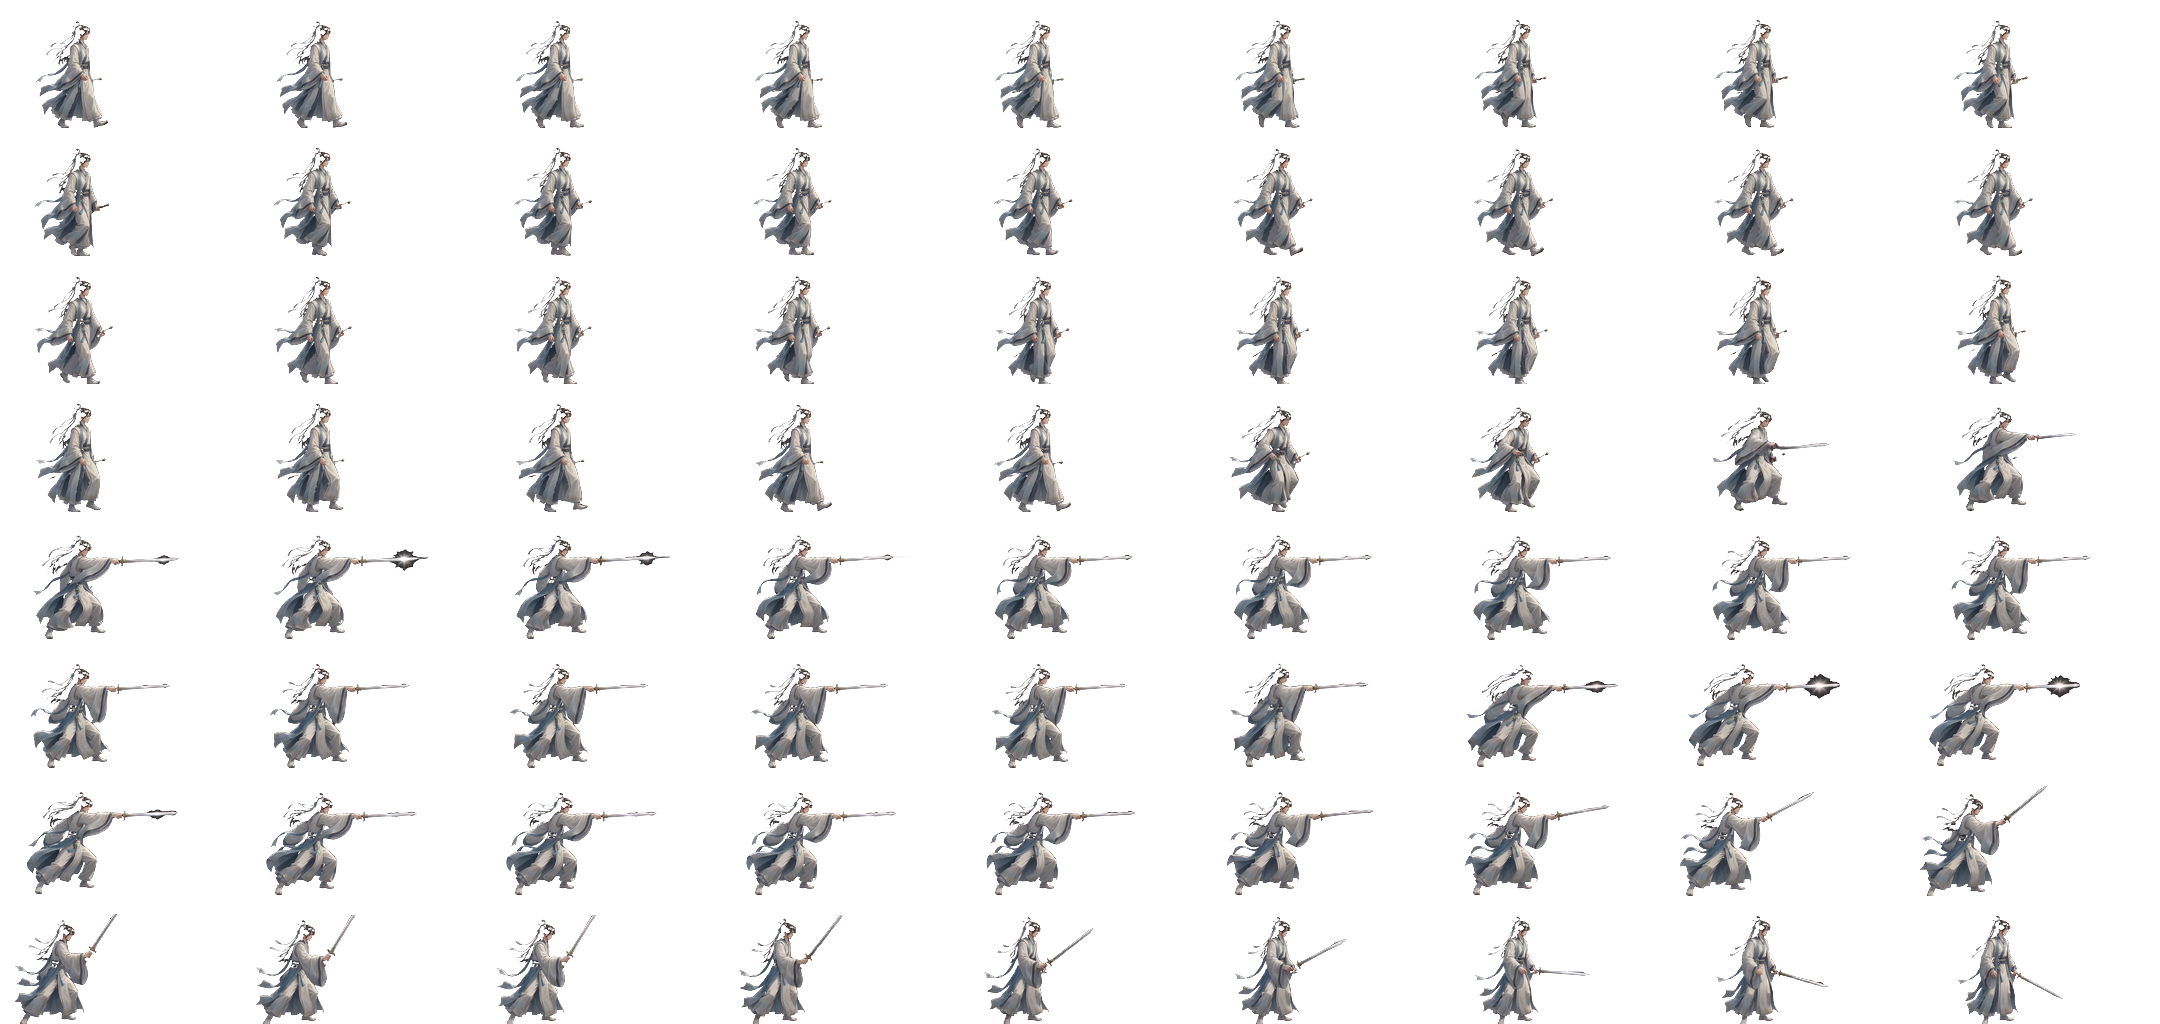
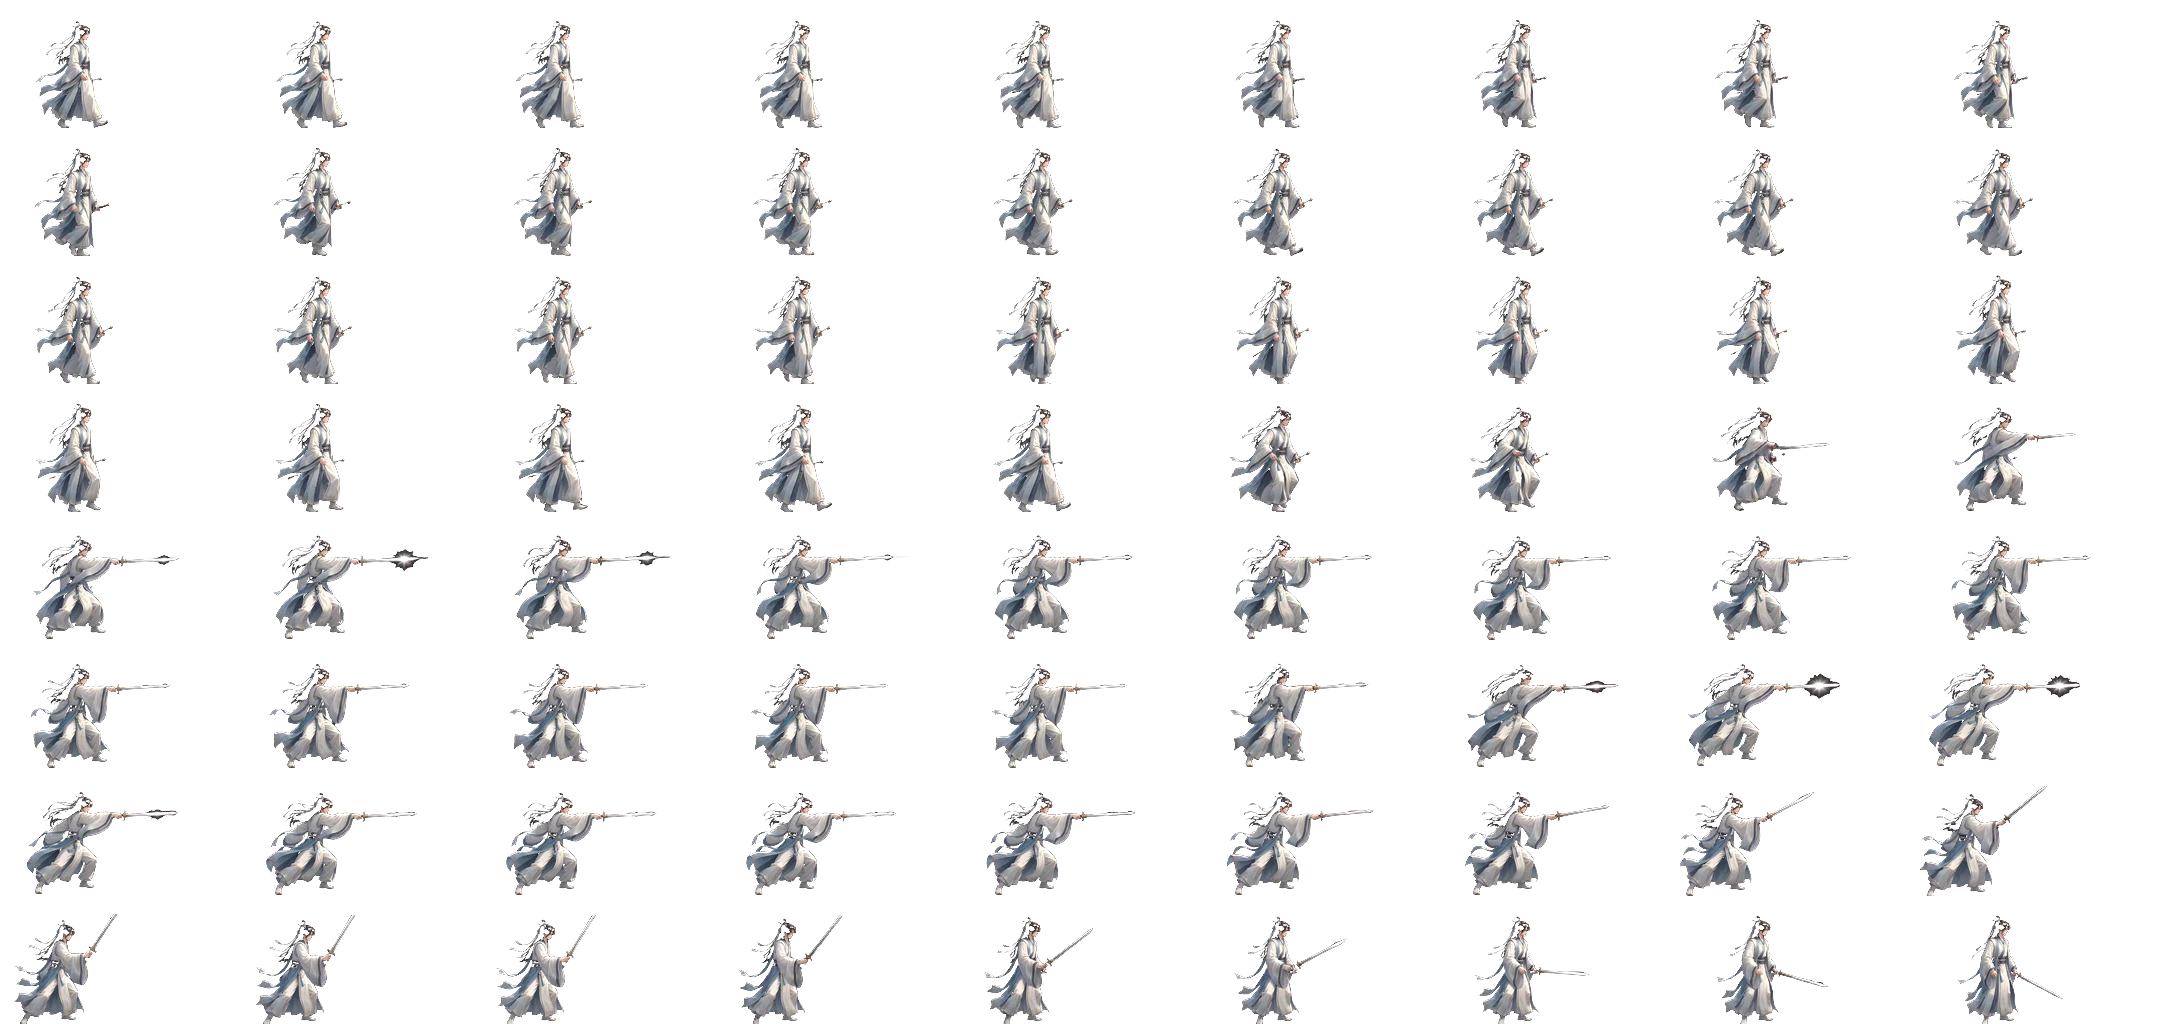
v2.6.1 UI 修复批: 角色提亮/图标抠底/进度条贴合/HUD 重排/技能页一屏
- 角色精灵表: 白衣 RGB×1.22 + alpha 收实(>=200→255), 修复'透明度过高'观感
- 宝物/丹房大图标: 泛洪抠掉未抠空的黑底(金框与内容保留), 按钮垫黑改透明
- 聚灵阵/突破进度条: 弃旧 SVG clipPath 墨形, 改按钮 webp 皮肤 alpha 作 mask,
  与图片皮肤天然贴合(聚灵阵用预翻转副本保持填充方向)
- HUD 重排: 境界区上移第一排最左上; 资源 chip 右移避开小图标;
  丹力提示拆独立定层(小图标正下方 72px), 不再压右上角图标
- 技能页: 卡片高度改内容自适应(原固定 88vh); 砍说明行/触发时机并入效果行/
  经验并入进度条同行 → 8 门神通一屏放下

diff --git a/index.html b/index.html
@@ -25,10 +25,11 @@
       linear-gradient(180deg, rgba(5,8,18,.35), transparent 30%, transparent 70%, rgba(4,6,14,.72))}
 
   /* ---- HUD ---- */
-  /* v1.5.0: 两行化 —— 第一行顶部资源栏(灵石/修为/云存/自动战斗), 第二行境界牌+宝/邮件 */
+  /* v2.6.1: 第一行 = 境界牌(最左) + 资源 chip(右移, 避开右上角小图标列) */
   .hud{position:fixed;left:0;right:0;top:0;z-index:10;padding:8px 12px 0;
     display:flex;flex-direction:column;gap:2px}
-  .res-bar{display:flex;align-items:center;justify-content:center;gap:7px;flex-wrap:wrap}
+  .res-bar{display:flex;align-items:center;justify-content:flex-end;gap:7px;flex-wrap:wrap;
+    margin-right:calc(78px + env(safe-area-inset-right, 0px))}
   .res-chip{flex:none}
   .res-bar .spirit{padding:3px 10px;font-size:12px}
   .res-bar .rate{padding:3px 9px;font-size:10.5px}
@@ -133,7 +134,7 @@
   .small-icons .icon-btn .mail-dot{position:absolute;top:-1px;right:-1px;width:7px;height:7px;background:#ff4a4a;border-radius:50%;border:1px solid #fff;display:none;z-index:2}
   .small-icons .icon-btn.has-mail .mail-dot{display:block;animation:dotBlink 1.2s ease-in-out infinite}
   .small-icons .icon-btn.has-mail{box-shadow:0 0 8px rgba(232,197,107,.8);border-color:#e8c56b}
-  .battle-ui .icon-btn{position:relative;width:42px;height:42px;border-radius:5px;overflow:hidden;cursor:pointer;transition:transform .15s,box-shadow .3s;border:1px solid rgba(232,197,107,.25);background:#000;flex:none}
+  .battle-ui .icon-btn{position:relative;width:42px;height:42px;border-radius:5px;overflow:hidden;cursor:pointer;transition:transform .15s,box-shadow .3s;border:1px solid rgba(232,197,107,.25);background:transparent;flex:none}   /* v2.6.1: 图标黑底已抠空, 垫黑改透明 */
   .battle-ui .icon-btn img{width:100%;height:100%;display:block;pointer-events:none}
   .battle-ui .icon-btn.small{width:28px;height:28px;border-radius:3px}
   .battle-ui #cloudChip{display:block;width:28px;height:28px;max-width:none;padding:0;overflow:hidden}
@@ -175,6 +176,12 @@
   .btn .label{position:relative;z-index:2}
   .btn .prog{position:absolute;inset:0;width:100%;height:100%;pointer-events:none;z-index:1;
     mix-blend-mode:multiply;isolation:isolate}   /* v1.7.49: 与按钮底色相乘 → 恒为"本色加深", 任何状态(金/红/禁用灰调)都不割裂 */
+  /* v2.6.1: 皮肤已换 webp 图片 → 进度填充改用图片 alpha 作 mask 裁形, 与新皮肤天然贴合
+     (替代旧 SVG clipPath 墨形; 聚灵阵皮肤有 scaleX(-1) 镜像, mask 需用预翻转副本保持填充方向从左到右) */
+  #btnArray .prog{-webkit-mask-image:url(assets/ui_icons/btn_array_flip.webp);mask-image:url(assets/ui_icons/btn_array_flip.webp);
+    -webkit-mask-size:100% 100%;mask-size:100% 100%;-webkit-mask-repeat:no-repeat;mask-repeat:no-repeat}
+  #btnBreak .prog{-webkit-mask-image:url(assets/ui_icons/btn_break.webp);mask-image:url(assets/ui_icons/btn_break.webp);
+    -webkit-mask-size:100% 100%;mask-size:100% 100%;-webkit-mask-repeat:no-repeat;mask-repeat:no-repeat}
   /* v1.10.2: 右移躲屏幕圆角(原来 right:9px 的尾字被圆角吃掉), 并叠一层 safe-area 兜底 */
   .ver-float{position:fixed;right:calc(26px + env(safe-area-inset-right, 0px));bottom:4px;z-index:10;pointer-events:none}
   /* ==================== v1.7.58 开屏页(大厂式: 品牌居中 + 进度百分比 + 忠告沉底) ==================== */
@@ -299,6 +306,9 @@
   /* 剧情纲目弹层 */
   .story-card{max-width:440px;width:94%;height:min(88vh,780px);display:flex;flex-direction:column;
     padding:16px 16px 14px;text-align:left;overflow:hidden}
+  /* v2.6.1: 技能页卡片改内容自适应高度(原固定 88vh 一屏占满) —— 内容超出时 skillBody 内部滚动兜底 */
+  #skillModal .story-card{height:auto;min-height:0;max-height:min(88vh,780px)}
+  #skillModal #skillBody{flex:1 1 auto;min-height:0;overflow-y:auto;-webkit-overflow-scrolling:touch}
   .story-card h3{margin-bottom:3px}
   .story-tip{font-size:10.5px;color:var(--dim);margin-bottom:4px;line-height:1.6}
   .chips-row{display:flex;gap:6px;overflow-x:auto;padding:2px 0 8px;scrollbar-width:none}
@@ -497,11 +507,7 @@
 <div class="vignette"></div>
 
 <div class="hud">
-  <!-- v1.5.0 顶部资源栏: 灵石 / 修为速率 / 云存 / 自动战斗小开关, 不再占右侧一列 -->
-  <div class="res-bar">
-    <div class="spirit res-chip"><svg class="sico" viewBox="0 0 20 20" aria-hidden="true"><path d="M10 1.5 L18.5 10 L10 18.5 L1.5 10 Z" fill="#67c9ab"/><path d="M10 1.5 L10 18.5 L18.5 10 Z" fill="#b7ecda"/><path d="M10 1.5 L1.5 10 L10 10 Z" fill="#9de0c9"/></svg><span id="spirit">0</span></div>
-    <div class="rate res-chip">修为 <b id="rateText">0</b>/秒</div>
-  </div>
+  <!-- v2.6.1: 境界区上移第一排最左; 资源 chip 右移(避开右上角小图标); 丹力提示拆到小图标正下方的独立层 -->
   <div class="hud-row">
     <div class="realm-left">
       <!-- v1.8.0: 榜单入口从资源栏移进境界牌 —— 资源栏不再被挤到第二行, 点整块境界牌即看榜 -->
@@ -510,11 +516,15 @@
         <button class="pname-btn" id="pName" onclick="openRename()" title="点此定道号"></button>
       </div>
     </div>
-    <div class="hud-right">
-      <div id="pillHints"></div>
+    <div class="res-bar">
+      <div class="spirit res-chip"><svg class="sico" viewBox="0 0 20 20" aria-hidden="true"><path d="M10 1.5 L18.5 10 L10 18.5 L1.5 10 Z" fill="#67c9ab"/><path d="M10 1.5 L10 18.5 L18.5 10 Z" fill="#b7ecda"/><path d="M10 1.5 L1.5 10 L10 10 Z" fill="#9de0c9"/></svg><span id="spirit">0</span></div>
+      <div class="rate res-chip">修为 <b id="rateText">0</b>/秒</div>
     </div>
   </div>
 </div>
+
+<!-- 丹力/洗髓 提示: 独立定层, 固定在右上角小图标正下方, 不再压图标 -->
+<div id="pillHints"></div>
 
 <!-- v1.5.0 顶部纵向流: 行迹 → 搜寻妖踪提示 → 战斗横幅, 依次排布不挤压(自动战斗开关已上移资源栏) -->
 <div class="top-stack" id="topStack">
@@ -564,8 +574,8 @@
 <div class="feed feed-avatar" id="avatarFeed"></div>
 <div class="feed feed-main" id="mainFeed"></div>
 <div class="actions">
-  <button class="btn" id="btnArray" onclick="tapArray()"><img class="skin" src="assets/ui_icons/btn_array.webp" alt=""><svg class="prog" viewBox="0 0 200 60" preserveAspectRatio="none" aria-hidden="true"><defs><clipPath id="arrFillClip"><path d="M12 9 C28 3 44 10 60 6 C76 2 92 8 108 6 C124 4 140 8 158 6 C174 4 192 8 197 16 C199 26 198 34 195 41 C193 46 196 52 182 53 C168 55 154 50 140 53 C124 56 110 50 96 53 C82 56 68 51 56 53 C42 55 30 50 20 52 C8 54 2 46 3 38 C3 28 2 20 5 15 C7 12 9 10 12 9 Z"/></clipPath></defs><rect id="arrFill" x="0" y="0" width="0" height="60" fill="url(#progGreen)" clip-path="url(#arrFillClip)"/></svg><span class="label">聚灵阵 Lv.<span id="arrayLv">1</span></span><i class="pnum" id="arrNum"></i></button>
-  <button class="btn primary" id="btnBreak" onclick="manualBreak()"><img class="skin" src="assets/ui_icons/btn_break.webp" alt=""><svg class="prog" viewBox="0 0 200 60" preserveAspectRatio="none" aria-hidden="true"><defs><clipPath id="brkFillClip"><path d="M14 7 C30 2 40 12 56 6 C72 1 84 9 100 6 C118 3 132 8 150 5 C166 3 184 6 194 12 C199 20 196 28 197 36 C198 44 194 50 180 52 C166 54 150 49 136 53 C120 57 104 50 90 54 C76 58 62 52 48 55 C34 57 20 52 10 53 C2 52 3 44 4 36 C5 27 3 19 6 14 C7 11 10 9 14 7 Z"/></clipPath></defs><rect id="brkFill" x="0" y="0" width="0" height="60" fill="url(#progJade)" clip-path="url(#brkFillClip)"/></svg><span class="label">☯ 立即突破</span><i class="pnum" id="brkNum"></i></button>
+  <button class="btn" id="btnArray" onclick="tapArray()"><img class="skin" src="assets/ui_icons/btn_array.webp" alt=""><svg class="prog" viewBox="0 0 200 60" preserveAspectRatio="none" aria-hidden="true"><rect id="arrFill" x="0" y="0" width="0" height="60" fill="url(#progGreen)"/></svg><span class="label">聚灵阵 Lv.<span id="arrayLv">1</span></span><i class="pnum" id="arrNum"></i></button>
+  <button class="btn primary" id="btnBreak" onclick="manualBreak()"><img class="skin" src="assets/ui_icons/btn_break.webp" alt=""><svg class="prog" viewBox="0 0 200 60" preserveAspectRatio="none" aria-hidden="true"><rect id="brkFill" x="0" y="0" width="0" height="60" fill="url(#progJade)"/></svg><span class="label">☯ 立即突破</span><i class="pnum" id="brkNum"></i></button>
   <button class="btn" id="btnTravel" onclick="openTravel()"><img class="skin" src="assets/ui_icons/btn_travel.webp" alt=""><span class="label">云游</span></button>
 </div>
 

diff --git a/game.js b/game.js
@@ -5214,30 +5214,30 @@ function hashRand(s) { let h = 2166136261; for (let i = 0; i < s.length; i++) { 
  * 数值: from(Lv1) → to(Lv20) 线性插值 —— 调参只改这两组数。 */
 const SKILL_MAX = 20;
 const SKILL_DEFS = [
-  { id: "jianqi",  name: "剑气斩", ico: "✦", tip: "普攻命中时概率斩出一道剑气 —— 这一击自带攻击力加成",
+  { id: "jianqi",  name: "剑气斩", ico: "✦",
     from: { chance: 5, dmg: 60 },          to: { chance: 30, dmg: 160 },
-    fmt: v => `${v.chance.toFixed(0)}% 触发 · 这一击 <b>×${v.dmg.toFixed(0)}% 攻击</b>` },
-  { id: "sanlian", name: "三连斩", ico: "❊", tip: "第二段落剑后概率再补一刀 —— 补刀必会心",
+    fmt: v => `命中 ${v.chance.toFixed(0)}% 斩出剑气 · 该击 <b>×${v.dmg.toFixed(0)}% 攻</b>` },
+  { id: "sanlian", name: "三连斩", ico: "❊",
     from: { chance: 4, dmg: 50 },          to: { chance: 25, dmg: 130 },
-    fmt: v => `${v.chance.toFixed(0)}% 触发 · 补刀 <b>×${v.dmg.toFixed(0)}% 攻击</b> 且必会心` },
-  { id: "hengsao", name: "横扫千军", ico: "◠", tip: "普攻命中时概率波及身周数名妖物",
+    fmt: v => `二段后 ${v.chance.toFixed(0)}% 补刀 · <b>×${v.dmg.toFixed(0)}% 攻</b> 必会心` },
+  { id: "hengsao", name: "横扫千军", ico: "◠",
     from: { chance: 3, n: 2, dmg: 40 },    to: { chance: 20, n: 5, dmg: 80 },
-    fmt: v => `${v.chance.toFixed(0)}% 触发 · 波及 ${v.n.toFixed(0)} 个 · <b>×${v.dmg.toFixed(0)}% 攻击</b>` },
-  { id: "zhansha", name: "斩杀", ico: "✖", tip: "目标残血时这一击伤害翻倍，残血线随等级抬高",
+    fmt: v => `命中 ${v.chance.toFixed(0)}% 波及身周 ${v.n.toFixed(0)} 个 · <b>×${v.dmg.toFixed(0)}% 攻</b>` },
+  { id: "zhansha", name: "斩杀", ico: "✖",
     from: { threshold: 5 },                to: { threshold: 25 },
-    fmt: v => `残血 ${v.threshold.toFixed(0)}% 以下 · 这一击 <b>伤害翻倍</b>` },
-  { id: "jifeng",  name: "疾风步", ico: "≫", tip: "身法 —— 击杀后概率踏入二倍速，期间身形飘忽加闪避",
+    fmt: v => `目标残血 <b>${v.threshold.toFixed(0)}%</b> 以下 · 该击伤害翻倍` },
+  { id: "jifeng",  name: "疾风步", ico: "≫",
     from: { chance: 5, dur: 4, mult: 2, dodge: 4 },   to: { chance: 65, dur: 8, mult: 2, dodge: 25 },
-    fmt: v => `${v.chance.toFixed(0)}% 触发 · ${v.mult} 倍速 ${v.dur.toFixed(0)} 秒 · 期间 <b>闪避 +${v.dodge.toFixed(0)}%</b>` },
-  { id: "suodi",   name: "缩地成寸", ico: "⋙", tip: "身法 —— 击杀后小概率踏入三倍速，缩地无形更易闪身",
+    fmt: v => `击杀 ${v.chance.toFixed(0)}% 入 ${v.mult} 倍速 ${v.dur.toFixed(0)} 秒 · <b>闪避 +${v.dodge.toFixed(0)}%</b>` },
+  { id: "suodi",   name: "缩地成寸", ico: "⋙",
     from: { chance: 0.5, dur: 2, mult: 3, dodge: 8 }, to: { chance: 12, dur: 4, mult: 3, dodge: 40 },
-    fmt: v => `${v.chance.toFixed(1)}% 触发 · ${v.mult} 倍速 ${v.dur.toFixed(0)} 秒 · 期间 <b>闪避 +${v.dodge.toFixed(0)}%</b>` },
-  { id: "pojia",   name: "破甲击", ico: "◆", tip: "普攻命中时概率无视目标部分防御",
+    fmt: v => `击杀 ${v.chance.toFixed(1)}% 入 ${v.mult} 倍速 ${v.dur.toFixed(0)} 秒 · <b>闪避 +${v.dodge.toFixed(0)}%</b>` },
+  { id: "pojia",   name: "破甲击", ico: "◆",
     from: { chance: 5, pen: 30 },          to: { chance: 25, pen: 70 },
-    fmt: v => `${v.chance.toFixed(0)}% 触发 · 无视 <b>${v.pen.toFixed(0)}% 防御</b>` },
-  { id: "zhuilie", name: "追猎", ico: "➤", tip: "击杀后概率立刻向下一目标再出手一次，衔尾一击更易暴击",
+    fmt: v => `命中 ${v.chance.toFixed(0)}% 无视目标 <b>${v.pen.toFixed(0)}% 防御</b>` },
+  { id: "zhuilie", name: "追猎", ico: "➤",
     from: { chance: 5, crit: 20 },         to: { chance: 30, crit: 100 },
-    fmt: v => `${v.chance.toFixed(0)}% 触发 · 击杀后连击 · 该击 <b>暴击 +${v.crit.toFixed(0)}%</b>` },
+    fmt: v => `击杀 ${v.chance.toFixed(0)}% 衔尾再击一次 · 该击 <b>暴击 +${v.crit.toFixed(0)}%</b>` },
 ];
 /* v2.5: 经验曲线大幅变陡(原 30·lv^1.35 → 120·lv^1.9)。
  * 原曲线单技能满 20 级仅需约 40 分钟连续战斗, 几天就全满, 与"几十天"的长周期严重脱节;
@@ -5367,21 +5367,18 @@ function renderSkills() {
     const s = skillGet(d.id), lv = skillLv(d.id), maxed = lv >= SKILL_MAX;
     const need = skillExpNeed(lv), pct = maxed ? 100 : Math.min(100, (s.exp / need) * 100);
     const v = skillVal(d.id);
+    /* v2.6.1: 单行紧凑卡 —— 触发时机并入 fmt, 砍说明行, 经验并入进度条同行 → 8 门一屏放下 */
     return `<div class="sk-row${maxed ? " maxed" : ""}">
       <div class="sk-ic">${d.ico}</div>
       <div class="sk-main">
         <div class="sk-top"><b>${d.name}</b><span class="sk-lv">Lv.${lv}<i>/${SKILL_MAX}</i></span></div>
         <div class="sk-eff">${d.fmt(v)}</div>
-        <div class="sk-tip">${d.tip}</div>
-        <div class="sk-bar"><i style="width:${pct.toFixed(1)}%"></i></div>
-        <div class="sk-exp">${maxed ? "已臻化境" : `经验 ${Math.floor(s.exp)} / ${need}`}</div>
+        <div class="sk-meta"><div class="sk-bar"><i style="width:${pct.toFixed(1)}%"></i></div><span class="sk-exp">${maxed ? "已臻化境" : `${Math.floor(s.exp)} / ${need}`}</span></div>
       </div>
     </div>`;
   }).join("");
   const total = skillTotalLv();
-  box.innerHTML = `<p class="story-tip" style="color:#8b94a8">神通只在战斗中自行触发，触发与生效即涨经验，日久自精。
-    共习 <b style="color:#a98a5a">${SKILL_DEFS.length}</b> 门，累计 <b style="color:#a98a5a">${total}</b> / ${SKILL_MAX * SKILL_DEFS.length} 阶。
-    神通只改出手与节奏，不增益属性 —— 攻防血仍由境界与法宝定夺。</p>`
+  box.innerHTML = `<p class="sk-sum">神通战斗中自行触发精进，不增益攻防血<br>共习 <b>${SKILL_DEFS.length}</b> 门 · 累计 <b>${total}</b> / ${SKILL_MAX * SKILL_DEFS.length} 阶</p>`
     + `<div class="sk-list">${rows}</div>`;
 }
 

diff --git a/dt-theme.css b/dt-theme.css
@@ -310,8 +310,9 @@
   #btnTravel.traveling{color:#dce7f8}
   #btnTravel .ink{fill:rgba(86,148,128,.5);stroke:rgba(150,230,205,.75)}
   #btnTravel{color:#cdeeda}
-  /* v1.5.0: 空态不再占位(min-height 15→0), 有丹力/洗髓 buff 时才撑开一行 */
-  #pillHints{min-height:0;font-size:10px;color:#9aa5ba;text-align:right;line-height:1.4}
+  /* v2.6.1: 丹力提示改独立定层 —— 固定在右上角小图标(两行, 底≈66px)正下方, 不再压图标 */
+  #pillHints{position:fixed;top:72px;right:10px;z-index:99;min-height:0;font-size:10px;color:#9aa5ba;
+    text-align:right;line-height:1.5;pointer-events:none;max-width:72vw;text-shadow:0 1px 3px rgba(0,0,0,.7)}
   #travelModal .story-body{padding:4px 4px 8px}
   /* v1.7.18 装备面板: 4 件竖排卡 + 词条药丸 + 熔炼近记, 高度比剧情长, 单独放开 */
   #equipModal .story-body{max-height:min(78vh,720px);padding:2px 6px 8px}
@@ -719,24 +720,27 @@
   .eq-empty{text-align:center;color:#8b94a8;font-size:12.5px;padding:24px 8px;line-height:2.1}
   .eq-rec{font-size:10px;color:#5f6980;text-align:center;margin-top:10px;line-height:1.7}
 
-/* ============ 神通面板(技能) ============ */
-  .sk-list{display:flex;flex-direction:column;gap:8px;margin-top:10px}
-  .sk-row{display:flex;gap:10px;align-items:stretch;padding:9px 10px;
+/* ============ 神通面板(技能) —— v2.6.1 紧凑重排: 8 门一屏放下 ============ */
+  .sk-sum{font-size:10.5px;color:#8b94a8;letter-spacing:.04em;line-height:1.7;margin:0 0 2px}
+  .sk-sum b{color:#a98a5a}
+  .sk-list{display:flex;flex-direction:column;gap:6px;margin-top:8px}
+  .sk-row{display:flex;gap:9px;align-items:center;padding:6px 10px;
     background:rgba(18,24,40,.55);border:1px solid rgba(201,168,106,.14)}
   .sk-row.maxed{border-color:rgba(240,201,138,.42)}
-  .sk-ic{flex:none;width:32px;display:flex;align-items:center;justify-content:center;
-    font-size:18px;color:#f0c98a;text-shadow:0 0 10px rgba(240,200,140,.45)}
+  .sk-ic{flex:none;width:26px;display:flex;align-items:center;justify-content:center;
+    font-size:17px;color:#f0c98a;text-shadow:0 0 10px rgba(240,200,140,.45)}
   .sk-main{flex:1;min-width:0}
   .sk-top{display:flex;justify-content:space-between;align-items:baseline;font-size:12.5px;color:#e6ecf5}
-  .sk-lv{font-size:11px;color:#f0c98a;font-weight:600}
-  .sk-lv i{font-style:normal;color:#7f92ad;font-size:10px;font-weight:400}
-  .sk-eff{font-size:11px;color:#9fd8ff;margin-top:2px;line-height:1.55}
+  .sk-lv{font-size:10.5px;color:#f0c98a;font-weight:600}
+  .sk-lv i{font-style:normal;color:#7f92ad;font-size:9.5px;font-weight:400}
+  .sk-eff{font-size:10.5px;color:#9fd8ff;margin-top:1px;line-height:1.5;
+    white-space:nowrap;overflow:hidden;text-overflow:ellipsis}
   .sk-eff b{color:#dff0ff;font-weight:600}
-  .sk-tip{font-size:10.5px;color:#6f7a90;margin-top:2px;line-height:1.5}
-  .sk-bar{height:3px;margin-top:5px;background:rgba(255,255,255,.08);overflow:hidden}
+  .sk-meta{display:flex;align-items:center;gap:8px;margin-top:4px}
+  .sk-bar{flex:1;height:3px;background:rgba(255,255,255,.08);overflow:hidden}
   .sk-bar i{display:block;height:100%;background:linear-gradient(90deg,#6fe0a8,#3ab878);transition:width .3s ease}
   .sk-row.maxed .sk-bar i{background:linear-gradient(90deg,#f0c98a,#d8a838)}
-  .sk-exp{font-size:10px;color:#7f92ad;margin-top:3px}
+  .sk-exp{flex:none;font-size:9.5px;color:#7f92ad;font-family:ui-monospace,SFMono-Regular,monospace}
 
 
 /* ============ v0.9.5 法宝大钮 + 六格面板 ============ */
